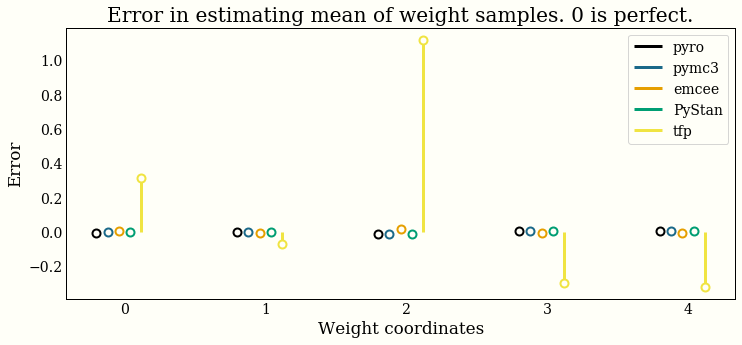
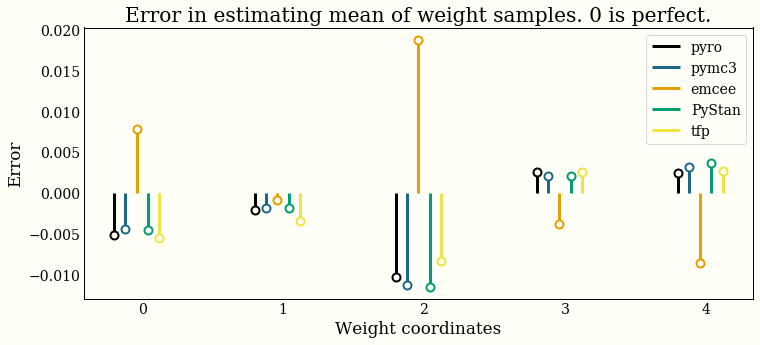
Fix tfp implementation

diff --git a/index.html b/index.html
@@ -231,10 +231,10 @@ X_tensor = tf.convert_to_tensor(X, dtype='float32')
 
 @tf.function
 def target_log_prob_fn(w):
-    w_dist = tfd.Normal(loc=tf.zeros(ndims), scale=1., name="w")
-    w_prob = tf.reduce_mean(w_dist.log_prob(w))
+    w_dist = tfd.Normal(loc=tf.zeros((ndims, 1)), scale=1.0, name="w")
+    w_prob = tf.reduce_sum(w_dist.log_prob(w))
     y_dist = tfd.Normal(loc=tf.matmul(X_tensor, w), scale=0.1, name="y")
-    y_prob = tf.reduce_mean(y_dist.log_prob(y_obs))
+    y_prob = tf.reduce_sum(y_dist.log_prob(y_obs.reshape(-1, 1)))
     return w_prob + y_prob
 
 
@@ -245,15 +245,15 @@ adaptive_hmc = tfp.mcmc.SimpleStepSizeAdaptation(
     tfp.mcmc.HamiltonianMonteCarlo(
         target_log_prob_fn=target_log_prob_fn,
         num_leapfrog_steps=4,
-        step_size=6.11e-01),
+        step_size=0.01),
     num_adaptation_steps=int(num_burnin_steps * 0.8))
 
-samples = tfp.mcmc.sample_chain(
+samples, is_accepted = tfp.mcmc.sample_chain(
     num_results=num_results,
     num_burnin_steps=num_burnin_steps,
     current_state=tf.zeros((ndims, 1)),
     kernel=adaptive_hmc,
-    trace_fn=None)</pre>
+    trace_fn=lambda _, pkr: pkr.inner_results.is_accepted)</pre>
         </section>
 
         <section>
@@ -265,7 +265,8 @@ samples = tfp.mcmc.sample_chain(
         <figure>
             <label for="accuracy" class="margin-toggle">&#8853;</label><input type="checkbox" id="accuracy"
                 class="margin-toggle" /><span class="marginnote">Error for each of the five coordinates of the
-                weight vector. Clearly something is up with my TensorFlow Probability implementation...</span>
+                weight vector. Note the \(y\)-axis, so to a first approximation, these are all pretty good.
+            </span>
             <img src="img/accuracy.png" alt="Accuracy of the MCMC samples." />
         </figure>
 
